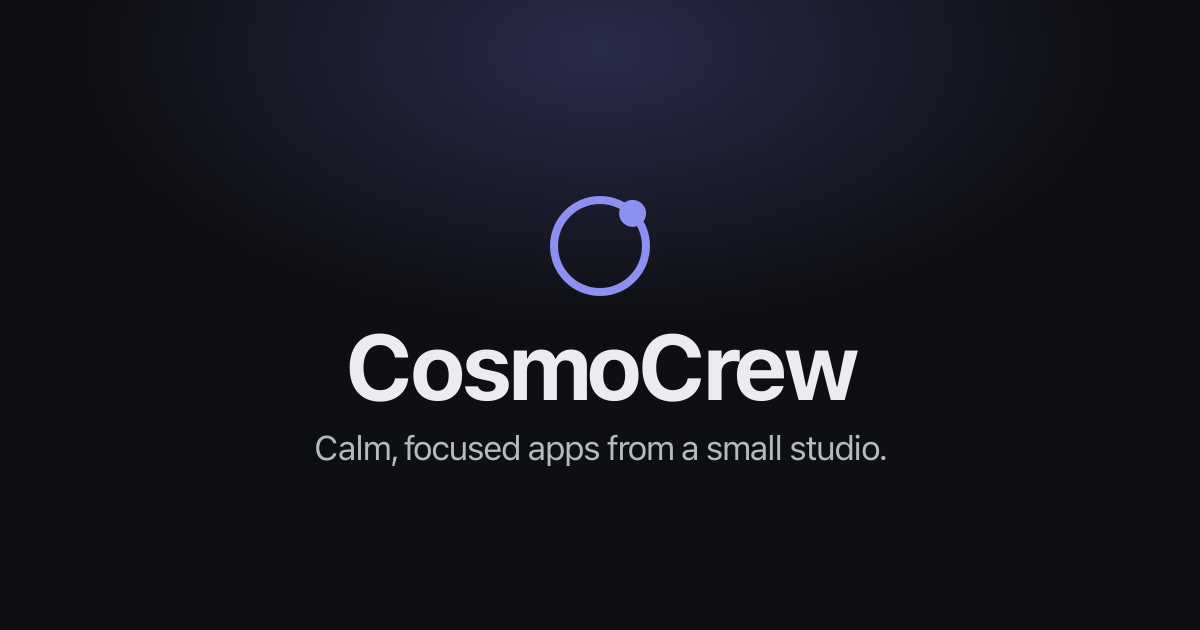
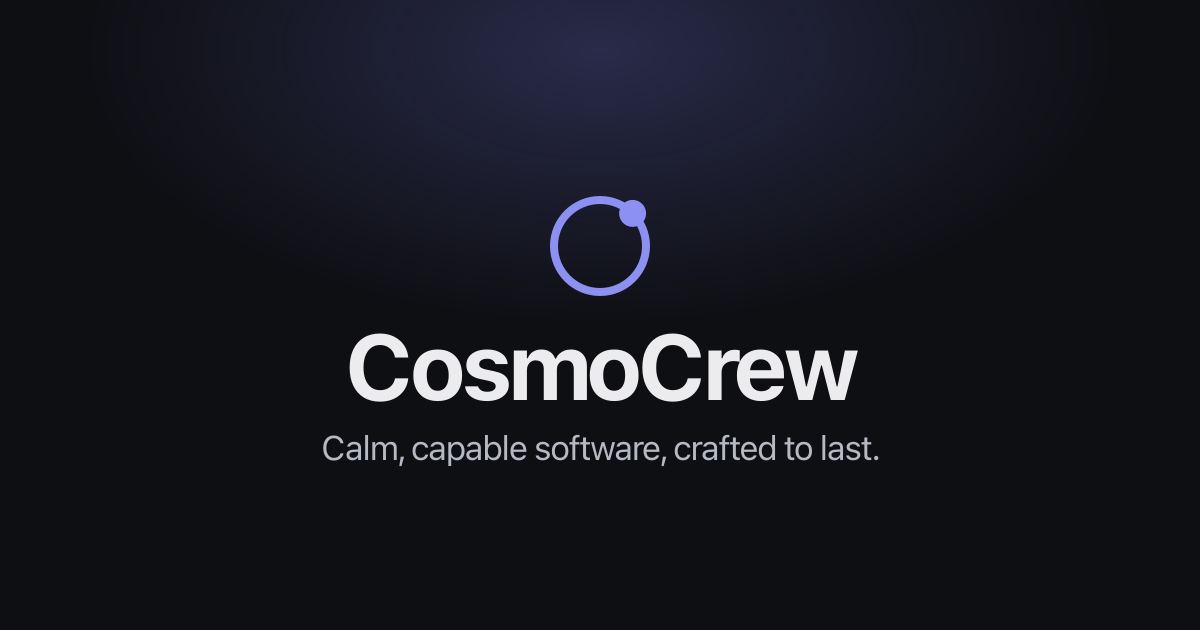
Reframe copy: craft and momentum over "small indie studio"
Lead with what we build (calm, capable, crafted) and signal growth ("more on
the way", "just getting started") instead of repeating "small/indie/modest".
Updated hero, products, about, footer, support, OG image, README, and package
description. Ko-fi link is now "Support the crew".

Changed region(s): [[0.2467, 0.6937, 0.74, 0.754]]

diff --git a/src/lib/site.ts b/src/lib/site.ts
@@ -1,4 +1,4 @@
 /** Site-wide links used in more than one place. */
 
-/** Ko-fi page for "support the studio" / tips. */
+/** Ko-fi page for "support the crew" / tips. */
 export const koFiUrl = 'https://ko-fi.com/cosmocrew';

diff --git a/README.md b/README.md
@@ -1,8 +1,9 @@
 # CosmoCrew Web
 
-The public website for **CosmoCrew**, a small independent software studio. It is
-a fast, minimal, static site that showcases our live products and links to their
-App Store pages, support, and docs.
+The public website for **CosmoCrew**, an independent software company building
+calm, capable products for focus and learning. It is a fast, minimal, static
+site that showcases our live products and links to their App Store pages,
+support, and docs.
 
 - **Framework:** [Astro](https://astro.build) (static output, TypeScript)
 - **Styling:** hand-written modern CSS with design tokens (no UI framework)